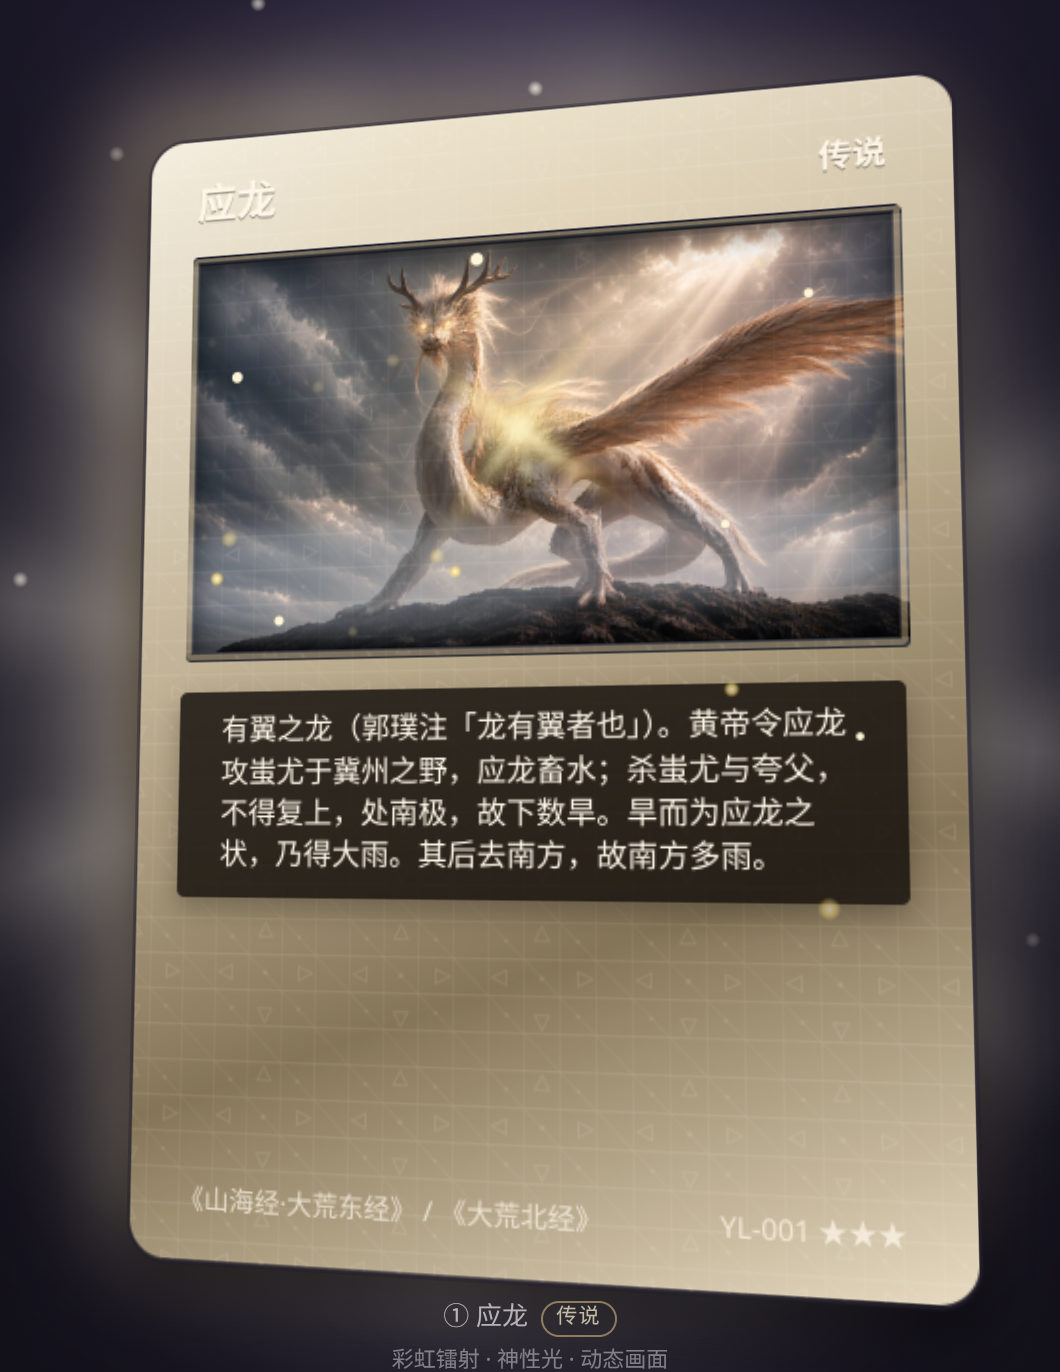
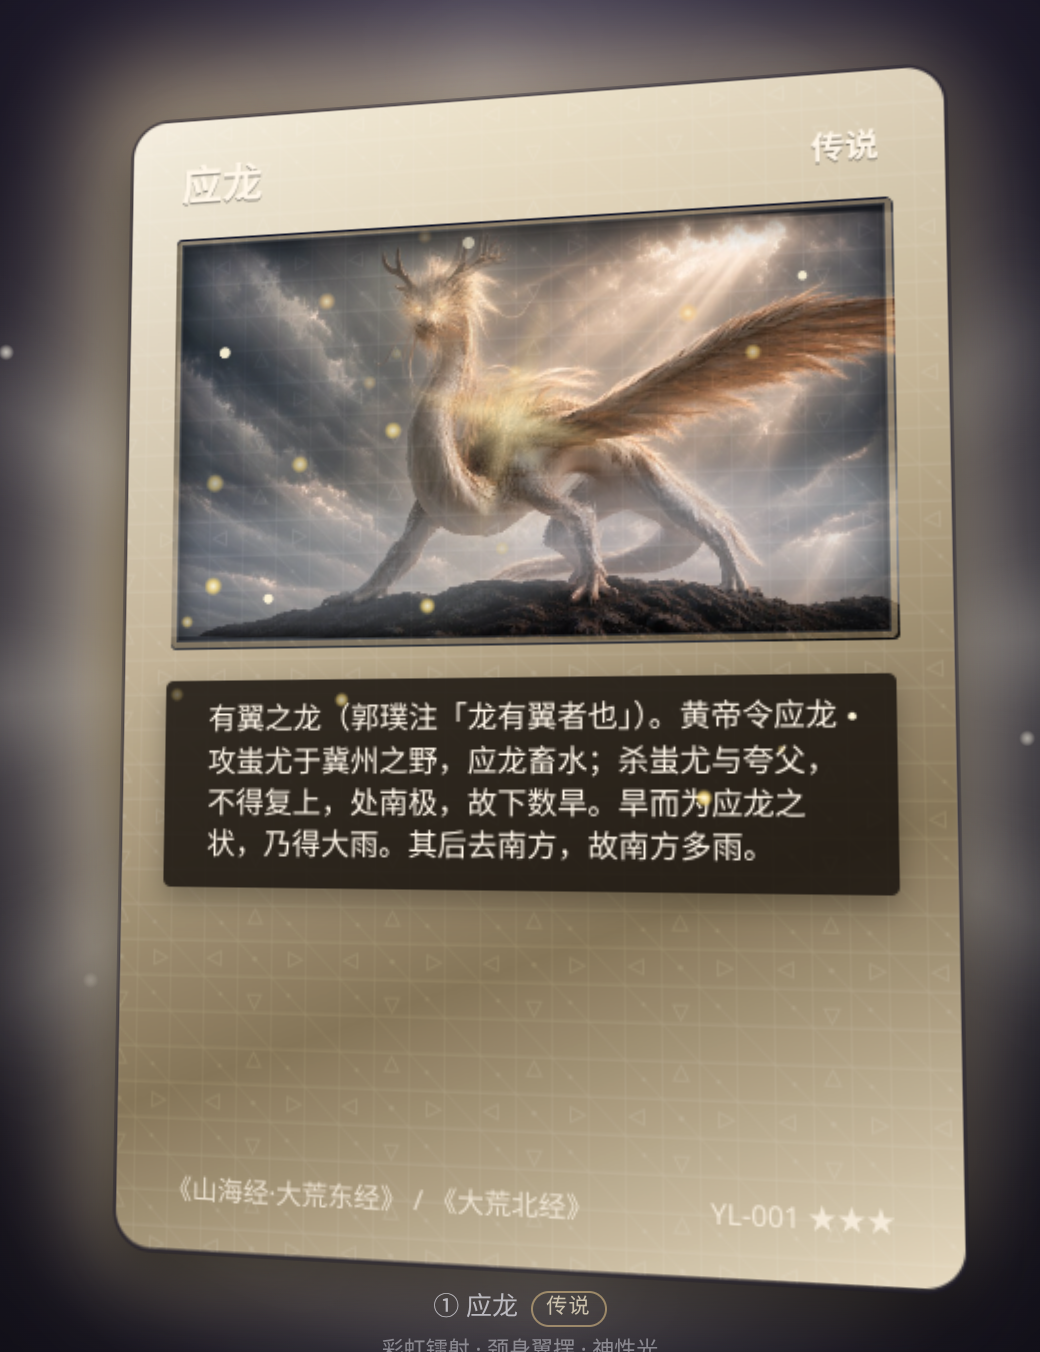
all-in-one: 应龙 L3 立绘主体动 / L4 环境层
L3（anim）：photo-art 颈身轻摆 + 翼层软遮罩呼吸，框内 transform。
L4（rarity）：云雾/鬃毛柔光/金尘/神性光带；无 rarity 时隐藏。
长文案（郭璞注/畜水/不得复上/旱状得雨/去南方）保留；等级说明同步。

diff --git a/index.html b/index.html
@@ -674,6 +674,12 @@ p.tip { margin: 0; opacity: .6; font-size: 13px; max-width: 42em; line-height: 1
   object-fit: contain;
   object-position: var(--yl-pos);
 }
+.card[data-card="yinglong"] .win__bg > img.photo-art--wing {
+  z-index: 2;
+  -webkit-mask-image: radial-gradient(ellipse 58% 62% at 70% 30%, #000 0%, #000 38%, transparent 72%);
+          mask-image: radial-gradient(ellipse 58% 62% at 70% 30%, #000 0%, #000 38%, transparent 72%);
+  pointer-events: none;
+}
 .card[data-card="yinglong"] .card__body {
   top: 51%;                      /* 贴着 16:9 窗下沿 */
   max-height: 36%;               /* 长文填满描述区，勿再压矮留白 */
@@ -1028,19 +1034,38 @@ body:not(.no-anim) .card[data-card="stardust"] .layer--char > svg { animation: a
 body:not(.no-anim) .card[data-card="lion"] .layer--char > svg { animation: an-pulse 4.5s ease-in-out infinite alternate; }
 @keyframes an-pulse { from { transform: scale(.985); } to { transform: scale(1.03); } }
 
-/* 应龙：神性光带呼吸、云雾漂移、鬃毛柔光摇曳、金尘微粒（框内；body.no-anim 关闭） */
+/* 应龙 L3：动态画面 = 立绘主体在动（颈身轻摆 + 翼羽呼吸，框内；body.no-anim 关闭）
+   L4：云雾/鬃毛柔光/金尘/神性光带 = 环境层，见下方 body.no-rarity 门控 */
 body:not(.no-anim) .card[data-card="yinglong"] .st-yl-fog { display: none; }
-body:not(.no-anim) .card[data-card="yinglong"] .win__bg > img.photo-art {
-  transform-origin: 50% 55%;
-  animation: an-yl-breathe 5.2s ease-in-out infinite alternate;
+body:not(.no-anim) .card[data-card="yinglong"] .win__bg > img.photo-art:not(.photo-art--wing) {
+  transform-origin: 34% 48%;
+  animation: an-yl-body 4.8s ease-in-out infinite alternate;
+  will-change: transform;
 }
-@keyframes an-yl-breathe {
-  from { transform: translateY(0) scale(1, 1); }
-  to   { transform: translateY(-1.1%) scale(1.012, 1.028); }
+@keyframes an-yl-body {
+  from { transform: translate(0%, 0.35%) rotate(-1.15deg) scale(1.004, 0.992); }
+  to   { transform: translate(0.55%, -0.7%) rotate(1.25deg) scale(1.014, 1.02); }
 }
-.an-yl-mist { will-change: transform, opacity; }
-.an-yl-mist--a { animation: an-yl-mist-a 14s ease-in-out infinite alternate; }
-.an-yl-mist--b { animation: an-yl-mist-b 18s ease-in-out infinite alternate; }
+body:not(.no-anim) .card[data-card="yinglong"] .win__bg > img.photo-art--wing {
+  transform-origin: 58% 28%;
+  animation: an-yl-wing 3.5s ease-in-out infinite alternate;
+  will-change: transform;
+}
+@keyframes an-yl-wing {
+  from { transform: rotate(-2.1deg) scale(0.978, 0.955) translate(-0.4%, 0.6%); }
+  to   { transform: rotate(2.4deg) scale(1.03, 1.055) translate(0.5%, -1.0%); }
+}
+
+/* 应龙 L4 环境层（专属特效 / rarity）：无 rarity 时整组隐藏 */
+body.no-rarity .card[data-card="yinglong"] .an-yl-mist,
+body.no-rarity .card[data-card="yinglong"] .an-yl-mane,
+body.no-rarity .card[data-card="yinglong"] .an-yl-embers,
+body.no-rarity .card[data-card="yinglong"] .an-godrays {
+  display: none !important;
+}
+body:not(.no-rarity) .card[data-card="yinglong"] .an-yl-mist { will-change: transform, opacity; }
+body:not(.no-rarity) .card[data-card="yinglong"] .an-yl-mist--a { animation: an-yl-mist-a 14s ease-in-out infinite alternate; }
+body:not(.no-rarity) .card[data-card="yinglong"] .an-yl-mist--b { animation: an-yl-mist-b 18s ease-in-out infinite alternate; }
 @keyframes an-yl-mist-a {
   from { transform: translate(-5%, 2%) scale(1); opacity: .55; }
   to   { transform: translate(6%, -3%) scale(1.06); opacity: .95; }
@@ -1049,7 +1074,7 @@ body:not(.no-anim) .card[data-card="yinglong"] .win__bg > img.photo-art {
   from { transform: translate(4%, -2%) scale(1.04); opacity: .9; }
   to   { transform: translate(-5%, 3%) scale(.96); opacity: .5; }
 }
-.an-yl-mane {
+body:not(.no-rarity) .card[data-card="yinglong"] .an-yl-mane {
   background:
     radial-gradient(ellipse 42% 28% at 28% 18%, rgba(255,236,200,.42) 0%, rgba(255,220,160,.12) 45%, transparent 70%),
     radial-gradient(ellipse 30% 22% at 42% 12%, rgba(255,250,230,.28) 0%, transparent 65%);
@@ -1061,8 +1086,8 @@ body:not(.no-anim) .card[data-card="yinglong"] .win__bg > img.photo-art {
   from { opacity: .35; transform: rotate(-2.2deg) scale(.96) translate(-1%, 1%); }
   to   { opacity: .95; transform: rotate(2.8deg) scale(1.06) translate(2%, -1%); }
 }
-.an-yl-embers { overflow: hidden; }
-.an-yl-embers i {
+body:not(.no-rarity) .card[data-card="yinglong"] .an-yl-embers { overflow: hidden; }
+body:not(.no-rarity) .card[data-card="yinglong"] .an-yl-embers i {
   position: absolute; left: var(--x); top: var(--y);
   width: calc(var(--card-w) * .028); aspect-ratio: 1; margin: calc(var(--card-w) * -.014);
   background: radial-gradient(circle, #fff6d0 0%, rgba(255,210,140,.7) 35%, rgba(255,200,120,0) 70%);
@@ -1073,8 +1098,7 @@ body:not(.no-anim) .card[data-card="yinglong"] .win__bg > img.photo-art {
   40% { opacity: 1; transform: translate3d(calc(var(--card-w) * .02), calc(var(--card-w) * -.04), 0) scale(1); }
   70% { opacity: .55; transform: translate3d(calc(var(--card-w) * -.015), calc(var(--card-w) * -.07), 0) scale(.7); }
 }
-/* 神性体积光：比默认更明显的呼吸（template 里的 .an-godrays） */
-body:not(.no-anim) .card[data-card="yinglong"] .an-godrays {
+body:not(.no-rarity) .card[data-card="yinglong"] .an-godrays {
   animation: an-yl-godrays 7.5s ease-in-out infinite alternate;
 }
 @keyframes an-yl-godrays {
@@ -1636,6 +1660,7 @@ body.no-rarity .pk .pk__zoom .card .layer--sfx { display: none; }
             <div class="win">
               <div class="win__bg">
                 <img class="photo-art" src="assets/yinglong/art.jpg" alt="" width="960" height="540" decoding="async" />
+                <img class="photo-art photo-art--wing" src="assets/yinglong/art.jpg" alt="" width="960" height="540" decoding="async" aria-hidden="true" />
                 <div class="an-ov an-godrays" aria-hidden="true"></div>
                 <div class="foil foil--art"></div>
               </div>
@@ -1692,7 +1717,7 @@ body.no-rarity .pk .pk__zoom .card .layer--sfx { display: none; }
           </div>
         </div>
       </div>
-      <div class="label">① 应龙<b class="rbadge" data-r="ur" data-theme="yinglong">传说</b><small>彩虹镭射 · 神性光 · 动态画面</small></div>
+      <div class="label">① 应龙<b class="rbadge" data-r="ur" data-theme="yinglong">传说</b><small>彩虹镭射 · 颈身翼摆 · 神性光</small></div>
     </div>
 
     <!-- ================= 卡 1：霜晶龙 · 彩虹镭射 · 只闪插画 · 窗内立绘 ================= -->
@@ -2372,8 +2397,8 @@ const LEVEL_KEY = 'holo-card:all-in-one:level';
 const LEVEL_INFO = {
   1: { name: '基础卡面', desc: '基础卡面：静态立绘——不倾斜、无视差、无动画、无箔光，只保留轻微的悬停投影。', on: [] },
   2: { name: '立体效果', desc: '立体效果：3D 倾斜 + 多层视差（全部在框内，不破框）；加上高光与卡缘边缘光 / 纸张厚度。', on: ['tilt', 'depth', 'glare', 'rim'] },
-  3: { name: '动态画面', desc: '动态画面：立绘本身在动——应龙鬃毛/神性光/云雾；霜晶龙颈呼吸与雪落；狐狸摆尾眨眼；星辰摆转；烈日光芒流转。', on: ['tilt', 'depth', 'glare', 'rim', 'anim'] },
-  4: { name: '专属特效', desc: '专属特效：每张卡定制的粒子与环境光（冰晶寒雾 / 火星暖光 / 星尘拖尾 / 金尘日芒），含稀有光晕与徽章。', on: ['tilt', 'depth', 'glare', 'rim', 'anim', 'rarity'] },
+  3: { name: '动态画面', desc: '动态画面：立绘本身在动——应龙颈身轻摆与翼羽呼吸；霜晶龙颈呼吸与雪落；狐狸摆尾眨眼；星辰摆转；烈日光芒流转。云雾/金尘/神性光带等环境层在 4 级专属特效。', on: ['tilt', 'depth', 'glare', 'rim', 'anim'] },
+  4: { name: '专属特效', desc: '专属特效：环境在动——应龙云雾/鬃毛柔光/金尘/神性光带；以及冰晶寒雾、火星暖光、星尘拖尾、金尘日芒等，含稀有光晕与徽章。', on: ['tilt', 'depth', 'glare', 'rim', 'anim', 'rarity'] },
   5: { name: '镀闪卡面', desc: '镀闪卡面：整张卡随角度流动的镭射箔面、压纹与闪点——全部特效叠满。', on: FX_KEYS },
 };
 const presetOf = (n) => Object.fromEntries(FX_KEYS.map(k => [k, LEVEL_INFO[n].on.includes(k)]));
